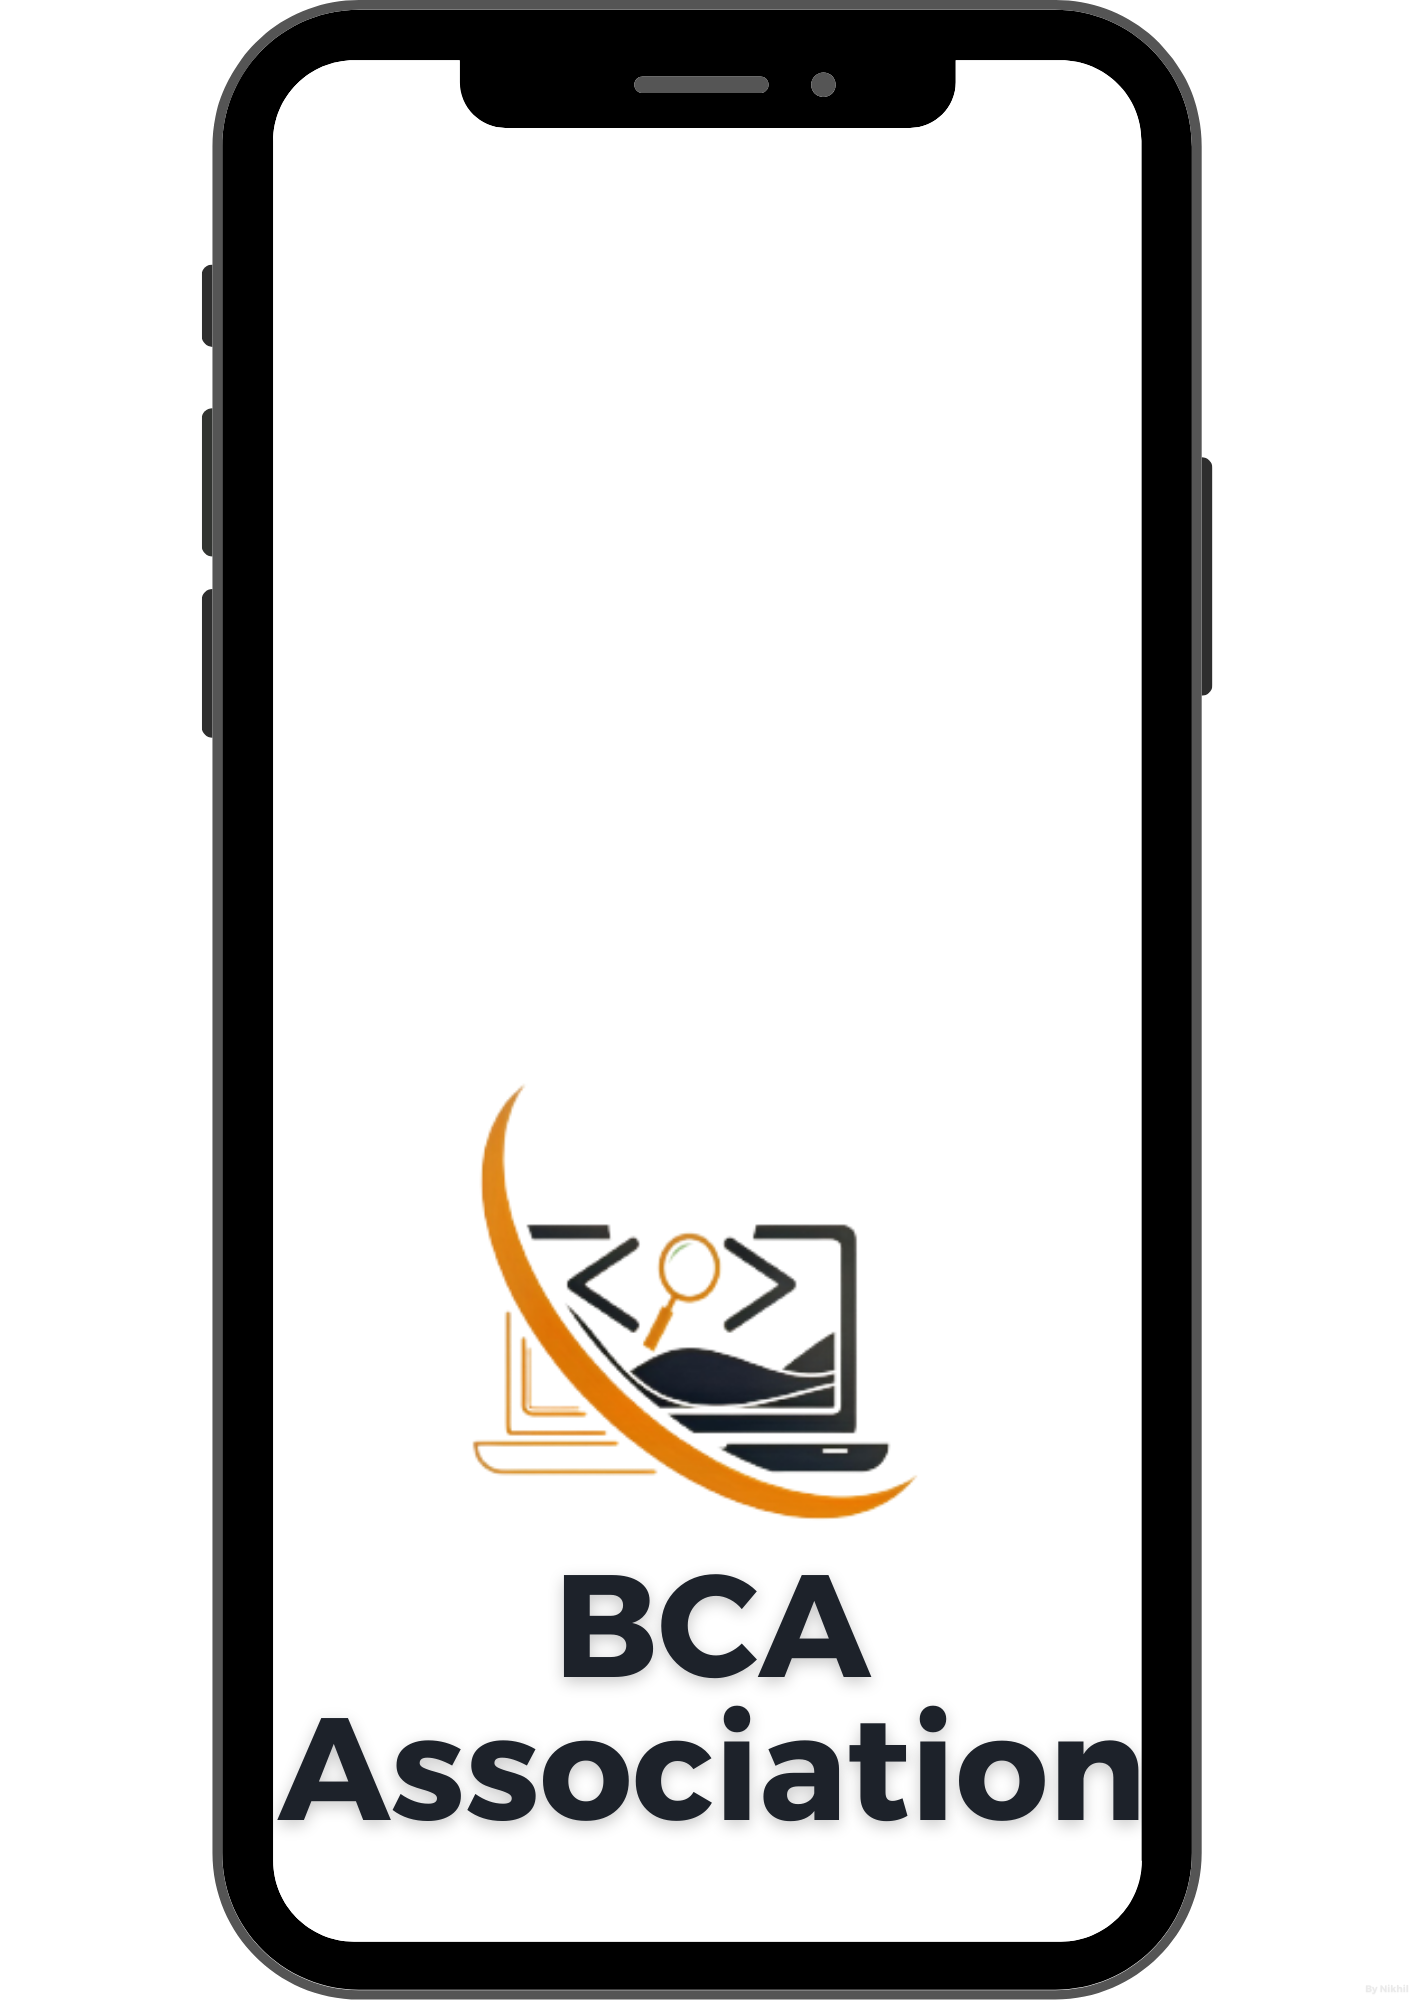
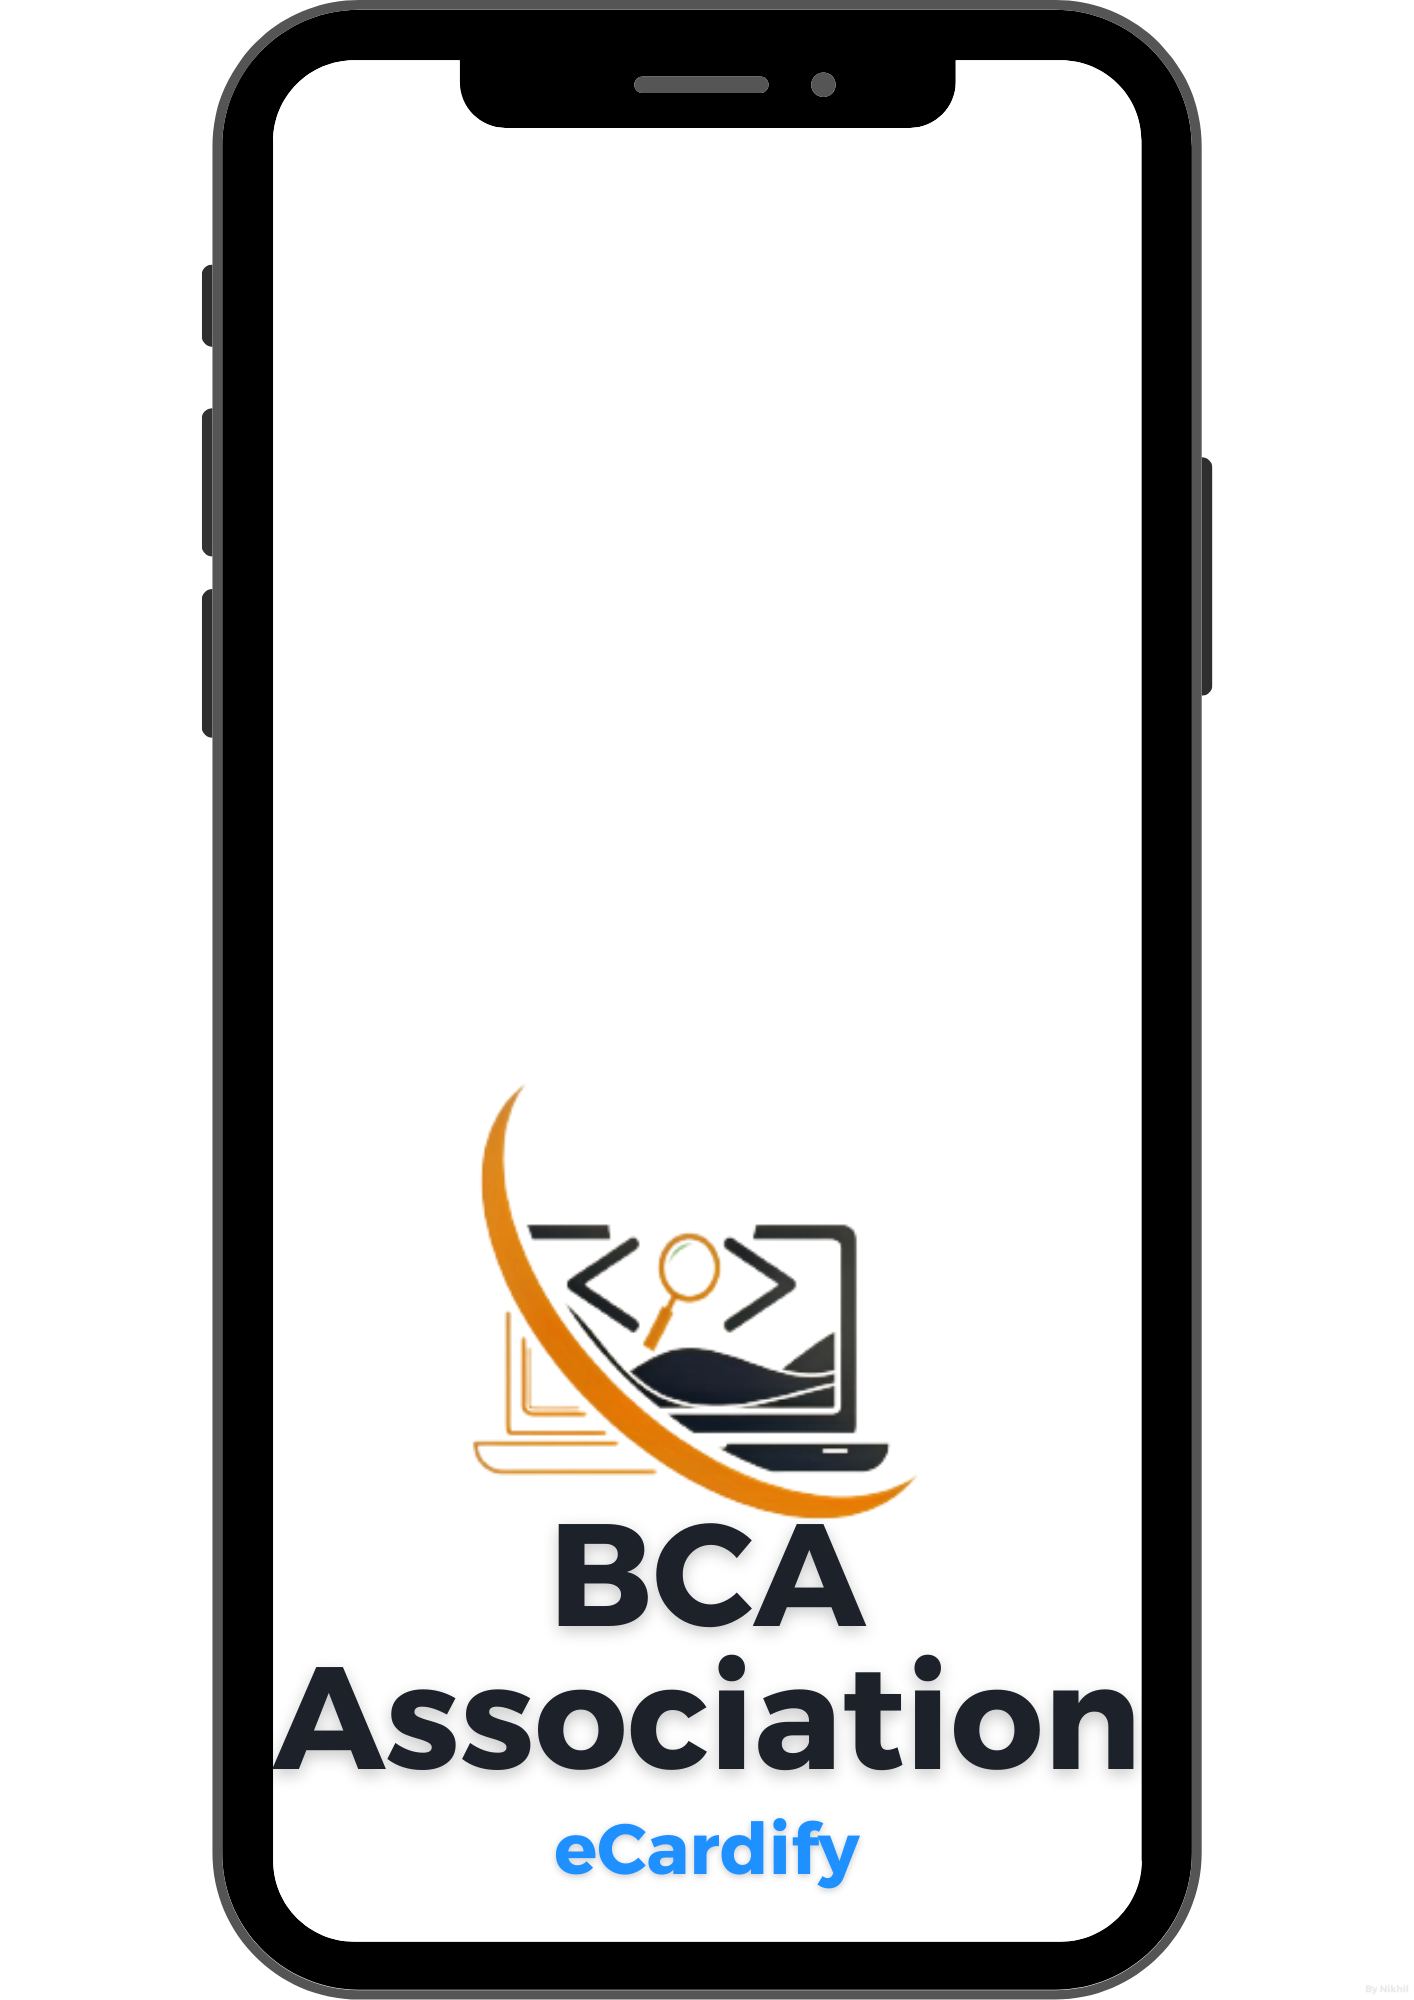
Implement important changes & provide name to my app as eCardify

Changed region(s): [[0.1867, 0.744, 0.8091, 0.961]]

diff --git a/src/App.js b/src/App.js
@@ -102,7 +102,7 @@ function App() {
     <div className="container">
       <nav className="navbar">
         <h1 className="navbar-title">MMAMC BCA ASSOCIATION</h1>
-        <h2 className="navbar-subtitle">ID CARD GENERATOR</h2>
+        <h2 className="navbar-subtitle">eCardify</h2>
       </nav>
       <form className="form" onSubmit={handleSubmit(onSubmit)}>
         <input
